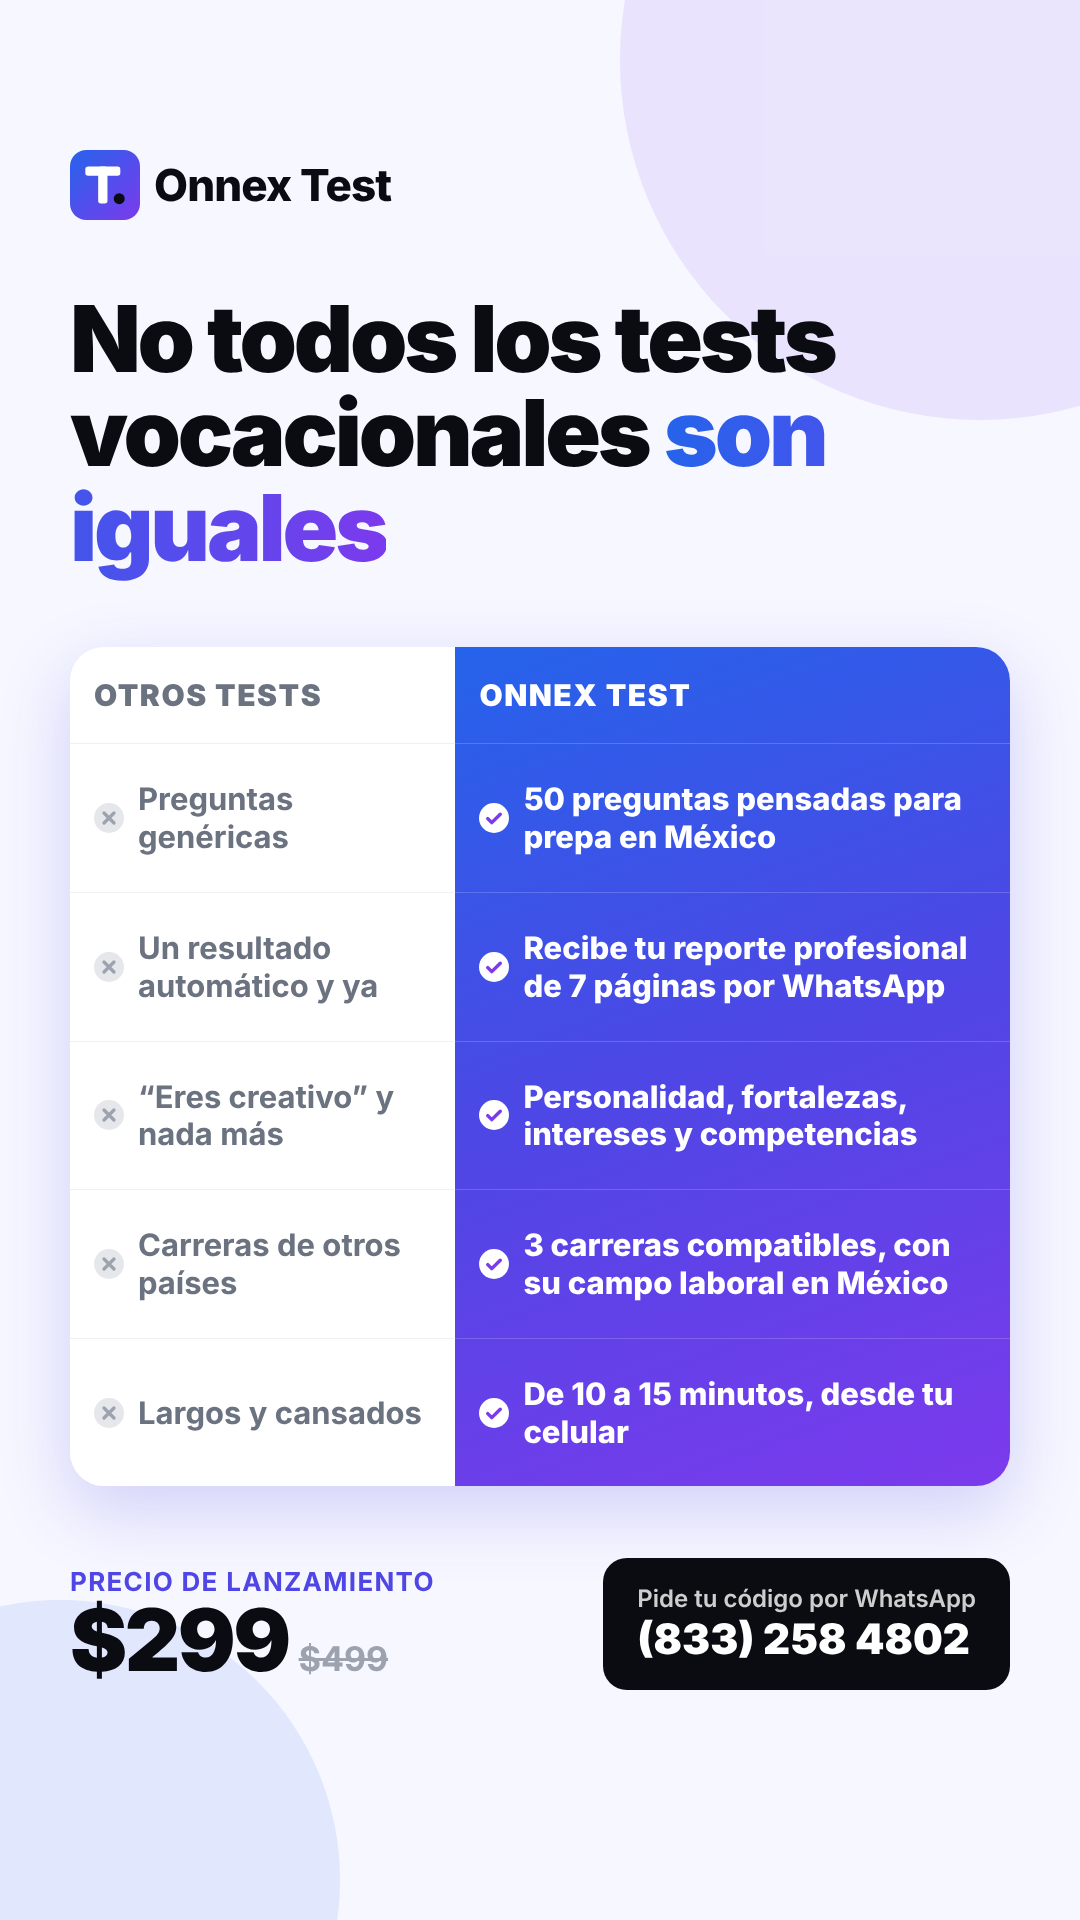
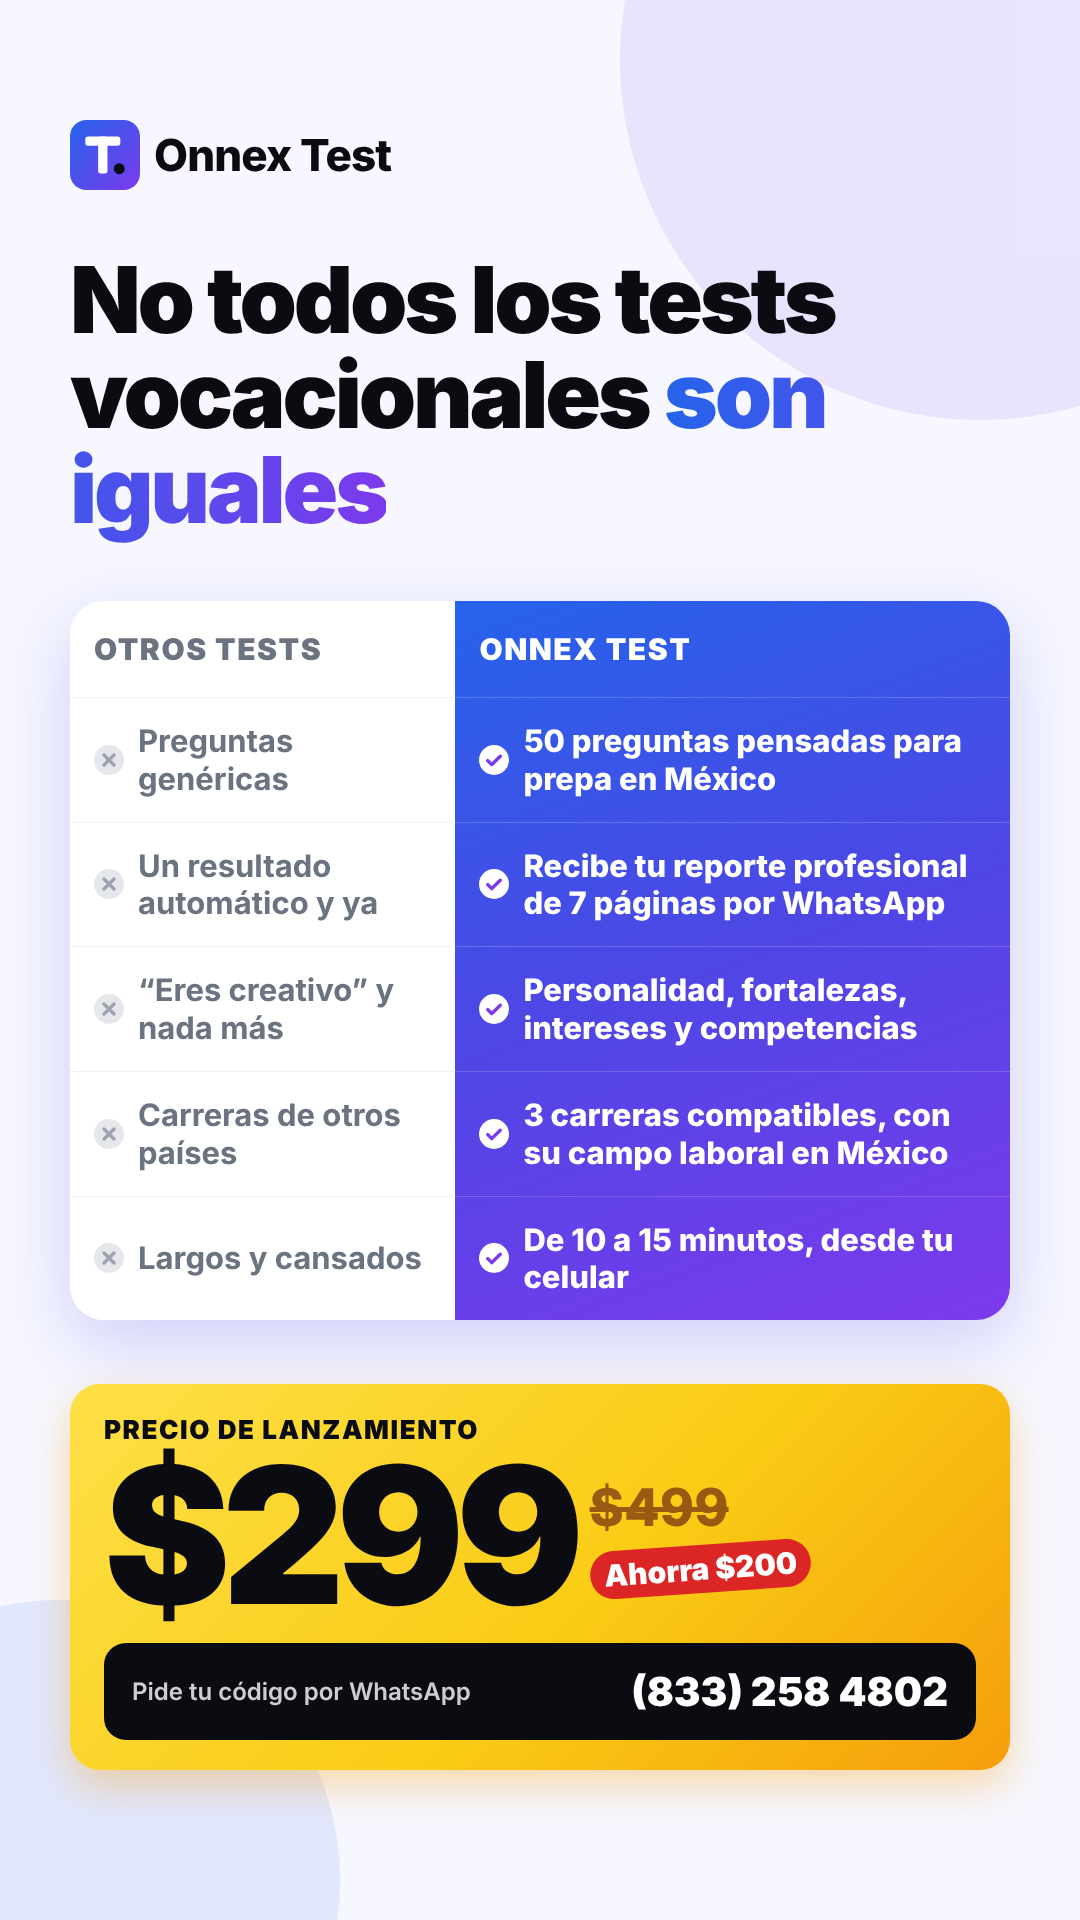
Artes: precio destacado en franja amarilla
Claude-Session: https://claude.ai/code/session_01XWD7x2csBx1fV87m5BhF1g

diff --git a/marketing/comparativo.ts b/marketing/comparativo.ts
@@ -29,32 +29,35 @@ function html(width: number, height: number, tall: boolean): string {
   return `<!doctype html><html><head><meta charset="utf-8"><style>
   *{box-sizing:border-box;margin:0;padding:0}
   body{width:${width}px;height:${height}px;overflow:hidden;font-family:Inter,"Segoe UI",Arial,"Liberation Sans","DejaVu Sans",sans-serif;background:#F6F7FF;color:${BRAND.ink}}
-  .wrap{position:relative;overflow:hidden;height:100%;padding:${tall ? `${f(150)} ${f(70)} ${f(230)}` : `${f(60)} ${f(60)}`};display:flex;flex-direction:column;gap:${f(tall ? 44 : 24)};justify-content:${tall ? "space-between" : "flex-start"}}
+  .wrap{position:relative;overflow:hidden;height:100%;padding:${tall ? `${f(120)} ${f(70)} ${f(150)}` : `${f(60)} ${f(60)}`};display:flex;flex-direction:column;gap:${f(tall ? 44 : 24)};justify-content:${tall ? "space-between" : "flex-start"}}
   .blob{position:absolute;border-radius:50%}
   .top{display:flex;justify-content:space-between;align-items:center;position:relative}
   .logo{display:inline-flex;align-items:center;gap:${f(14)};white-space:nowrap}
   .logo span{font-weight:800;font-size:${f(tall ? 44 : 36)};letter-spacing:-0.02em}
   .tag{font-size:${f(tall ? 24 : 20)};font-weight:800;color:#4F46E5;background:#fff;border-radius:999px;padding:${f(10)} ${f(20)};box-shadow:0 ${f(4)} ${f(18)} rgba(79,70,229,.12);white-space:nowrap}
-  h1{position:relative;font-size:${f(tall ? 92 : 62)};line-height:1.03;letter-spacing:-0.035em;font-weight:900}
+  h1{position:relative;font-size:${f(tall ? 92 : 56)};line-height:1.03;letter-spacing:-0.035em;font-weight:900}
   h1 em{font-style:normal;background:linear-gradient(90deg,${BRAND.blue},${BRAND.purple});-webkit-background-clip:text;color:transparent}
-  .table{position:relative;display:grid;grid-template-columns:0.82fr 1.18fr;border-radius:${f(34)};overflow:hidden;box-shadow:0 ${f(24)} ${f(70)} rgba(79,70,229,.22)${tall ? "" : ";flex:1"}}
+  .table{position:relative;flex-shrink:0;display:grid;grid-template-columns:0.82fr 1.18fr;border-radius:${f(34)};overflow:hidden;box-shadow:0 ${f(24)} ${f(70)} rgba(79,70,229,.22)${tall ? "" : ";flex:1"}}
   .col{display:flex;flex-direction:column}
   .them{background:#fff}
   .us{background:linear-gradient(160deg,${BRAND.blue},#4F46E5 50%,${BRAND.purple});color:#fff}
-  .head{font-size:${f(tall ? 30 : 23)};font-weight:900;text-transform:uppercase;letter-spacing:.05em;padding:${f(tall ? 30 : 20)} ${f(24)}}
+  .head{font-size:${f(tall ? 30 : 21)};font-weight:900;text-transform:uppercase;letter-spacing:.05em;padding:${f(tall ? 30 : 14)} ${f(24)}}
   .them .head{color:#6B7280}
-  .cell{flex:1;display:flex;align-items:center;gap:${f(14)};padding:${f(tall ? 36 : 12)} ${f(24)};font-size:${f(tall ? 31 : 22)};line-height:1.22;font-weight:700;border-top:1px solid}
+  .cell{flex:1;display:flex;align-items:center;gap:${f(14)};padding:${f(tall ? 24 : 9)} ${f(24)};font-size:${f(tall ? 31 : 21)};line-height:1.22;font-weight:700;border-top:1px solid}
   .cell svg{flex-shrink:0}
   .them .cell{color:#6B7280;border-color:#EEF0F4}
   .us .cell{font-weight:800;border-color:rgba(255,255,255,.18)}
-  .bottom{position:relative;display:flex;align-items:center;justify-content:space-between;gap:${f(20)};flex-wrap:wrap}
+  .bottom{position:relative;display:flex;flex-direction:${tall ? "column" : "row"};align-items:${tall ? "stretch" : "center"};justify-content:space-between;gap:${f(18)};background:linear-gradient(135deg,#FDE047,#FACC15 55%,#F59E0B);border-radius:${f(30)};padding:${f(tall ? 30 : 16)} ${f(tall ? 34 : 26)};box-shadow:0 ${f(16)} ${f(40)} rgba(245,158,11,.35)}
   .price{display:flex;flex-direction:column}
-  .price small{font-size:${f(tall ? 26 : 20)};font-weight:700;color:#4F46E5;text-transform:uppercase;letter-spacing:.05em}
-  .price b{font-size:${f(tall ? 86 : 58)};font-weight:900;letter-spacing:-0.03em;line-height:1}
-  .price s{font-size:${f(tall ? 34 : 26)};color:#9CA3AF;font-weight:700;margin-left:${f(10)}}
-  .cta{background:${BRAND.ink};color:#fff;border-radius:${f(24)};padding:${f(tall ? 26 : 18)} ${f(tall ? 34 : 26)};display:flex;flex-direction:column;align-items:flex-start}
-  .cta small{font-size:${f(tall ? 24 : 18)};font-weight:600;opacity:.8}
-  .cta span{font-size:${f(tall ? 42 : 32)};font-weight:900;white-space:nowrap}
+  .price small{font-size:${f(tall ? 26 : 19)};font-weight:900;color:${BRAND.ink};text-transform:uppercase;letter-spacing:.06em}
+  .price .row{display:flex;align-items:center;gap:${f(14)}}
+  .price b{font-size:${f(tall ? 190 : 104)};font-weight:900;letter-spacing:-0.045em;line-height:.95;color:${BRAND.ink}}
+  .price .old{display:flex;flex-direction:column;gap:${f(6)}}
+  .price s{font-size:${f(tall ? 52 : 28)};color:#78350F;font-weight:800;opacity:.75}
+  .save{background:#DC2626;color:#fff;font-weight:900;font-size:${f(tall ? 30 : 17)};border-radius:999px;padding:${f(6)} ${f(14)};white-space:nowrap;transform:rotate(-4deg)}
+  .cta{background:${BRAND.ink};color:#fff;border-radius:${f(22)};padding:${f(tall ? 24 : 16)} ${f(tall ? 28 : 22)};display:flex;flex-direction:${tall ? "row" : "column"};align-items:${tall ? "center" : "flex-start"};justify-content:space-between;gap:${f(12)}}
+  .cta small{font-size:${f(tall ? 24 : 17)};font-weight:600;opacity:.8}
+  .cta span{font-size:${f(tall ? 40 : 30)};font-weight:900;white-space:nowrap}
   .foot{position:relative;font-size:${f(tall ? 28 : 20)};color:#3F4254;font-weight:600}
   </style></head><body><div class="wrap">
   <div class="blob" style="width:${f(720)};height:${f(720)};right:${f(-260)};top:${f(-300)};background:rgba(124,58,237,.10)"></div>
@@ -66,7 +69,7 @@ function html(width: number, height: number, tall: boolean): string {
     <div class="col us"><div class="head">Onnex Test</div>${ROWS.map(([, b]) => `<div class="cell">${ok}<span>${b}</span></div>`).join("")}</div>
   </div>
   <div class="bottom">
-    <div class="price"><small>Precio de lanzamiento</small><div><b>$299</b><s>$499</s></div></div>
+    <div class="price"><small>Precio de lanzamiento</small><div class="row"><b>$299</b><div class="old"><s>$499</s><span class="save">Ahorra $200</span></div></div></div>
     <div class="cta"><small>Pide tu código por WhatsApp</small><span>${BRAND.contactPhone}</span></div>
   </div>
   </div></body></html>`;
